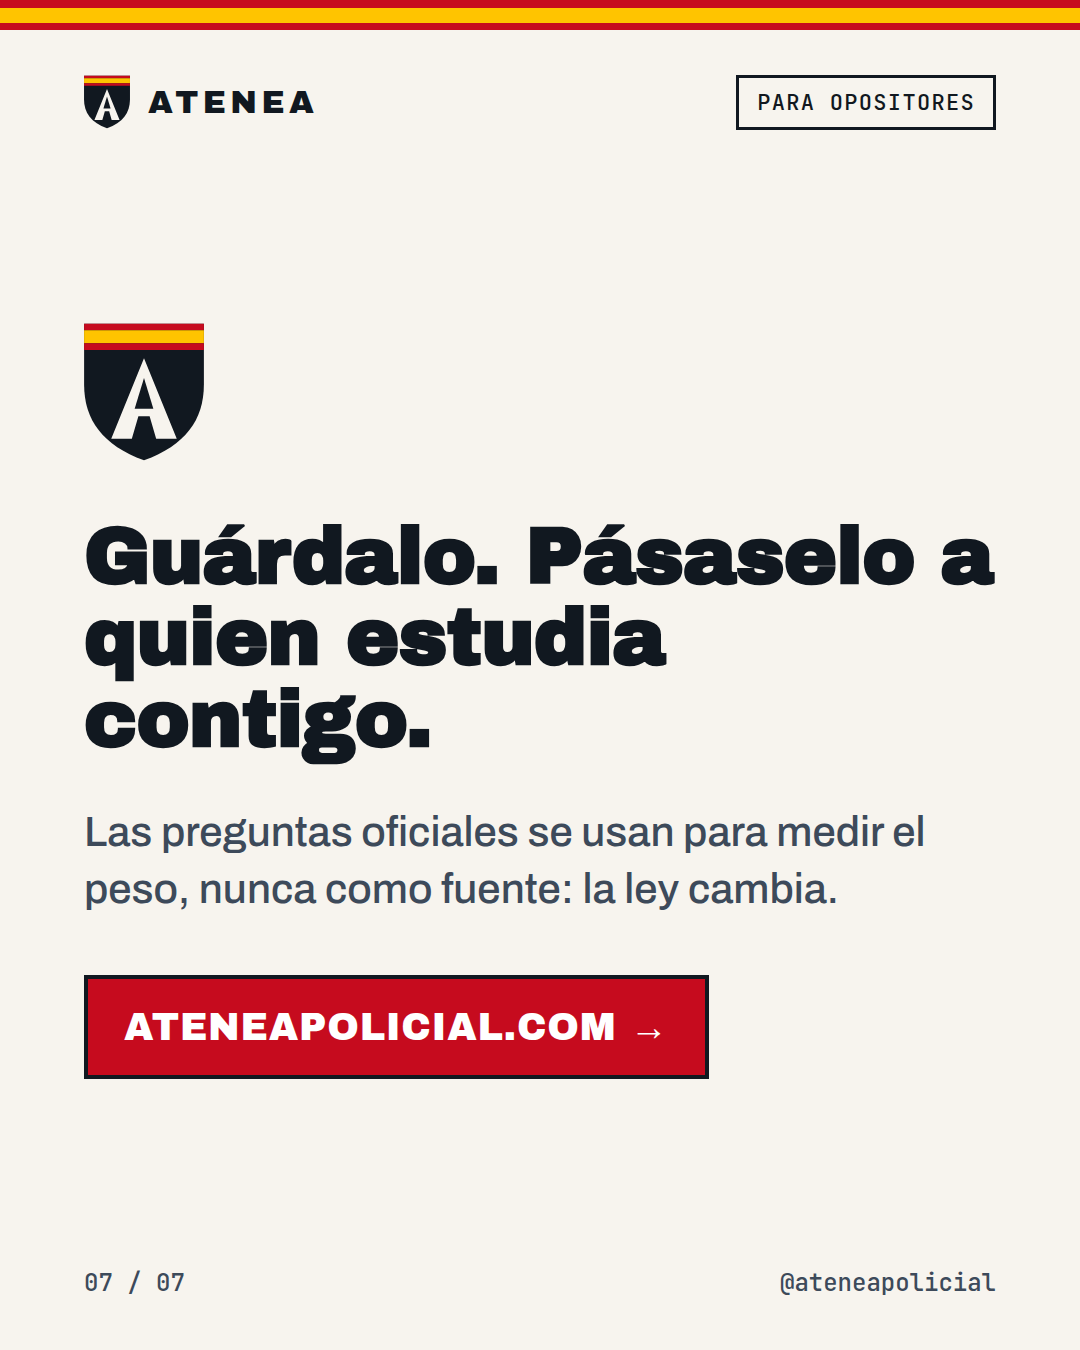
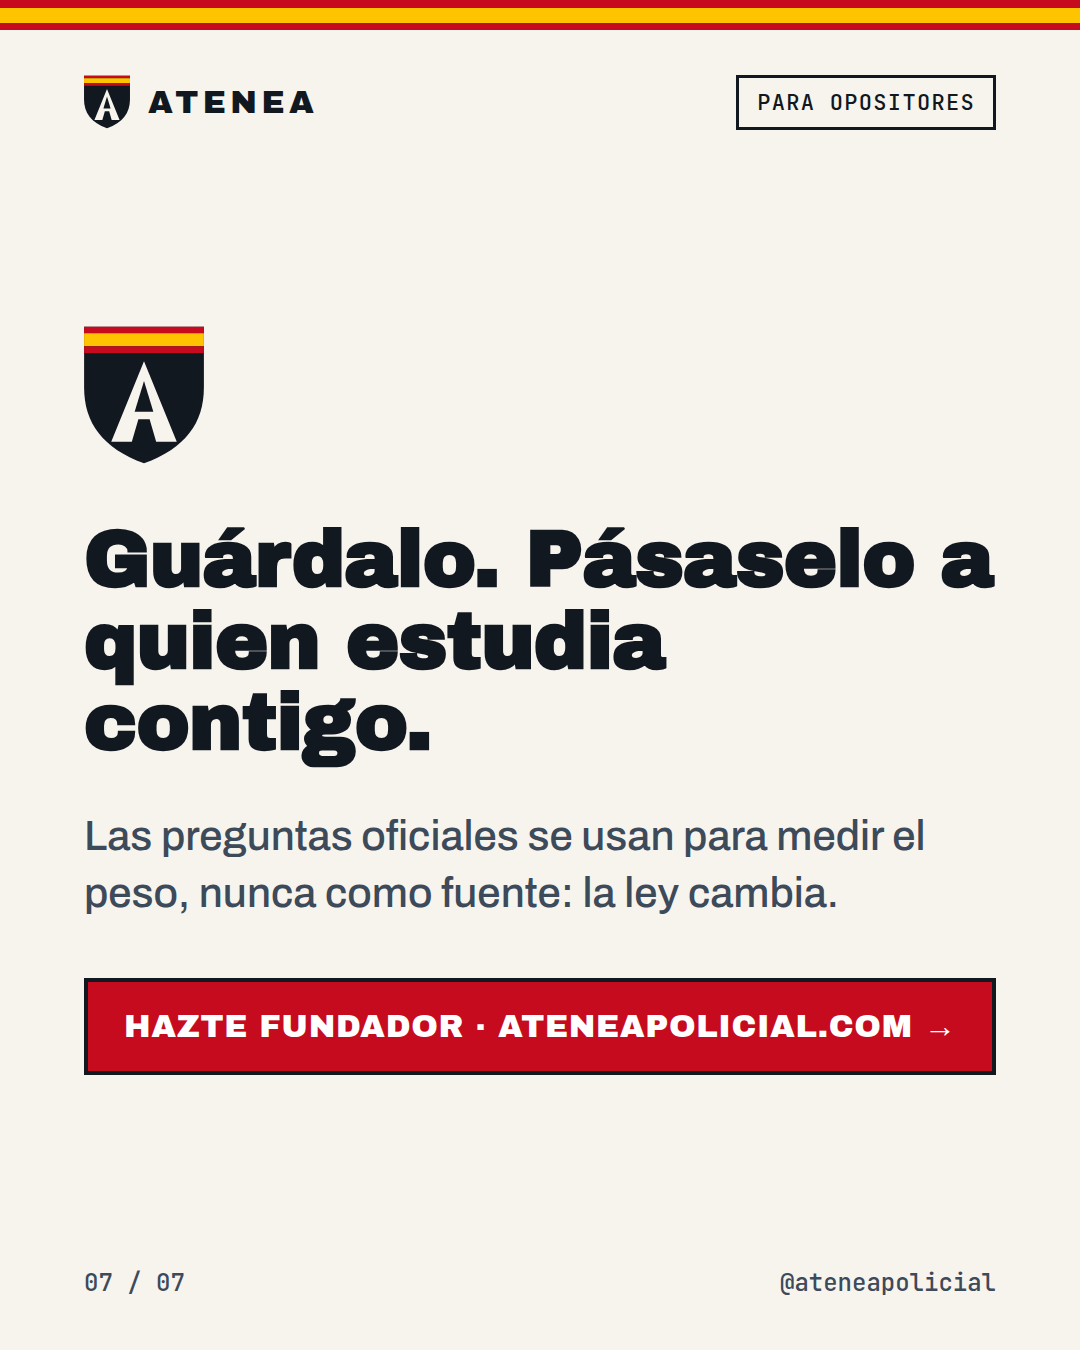
Instagram: llamada a opositores fundadores y correos de contacto
El post que abre la cuenta pasa a ser «Buscamos opositores fundadores»
(sin coste, con voz). Los posts para opositores cierran con «Hazte
fundador» y alumnos@ateneapolicial.com; los de academias, con
contacto@ateneapolicial.com.

Claude-Session: https://claude.ai/code/session_01Q8bJ7PzybgSgRwg9n7MrC2

diff --git a/marketing/instagram/POSTS.md b/marketing/instagram/POSTS.md
@@ -5,52 +5,61 @@
 
 Las imágenes de cada post están en `png/<id>/`, numeradas en el orden en que se suben.
 
-## 01-manifiesto · Quiénes somos y en qué somos distintos
+## 01-fundadores · Presentación: buscamos opositores fundadores
 
 **Semana 1, Lunes** · Público: **Opositores · Academias** · 📌 **Fijar en el perfil**
 
 ### Diapositivas
 
 1. Atenea Policial  
-   Estudiar más horas no es el problema.  
-   Estudiar lo que no toca, sí.
+   Buscamos opositores fundadores.  
+   Para una plataforma que decide qué estudias hoy. Y te dice por qué.
 2. Lo que hay  
    Miles de preguntas al azar y un porcentaje.  
    Así funcionan casi todas las plataformas de test. Qué repasar, cuándo y cuánto lo decides tú. Y nadie mira cómo has respondido: solo si has acertado.
 3. Lo que hace Atenea  
    Decide por ti. Y te dice por qué.  
    · Qué estudias hoy — Cada pregunta lleva su propio calendario de repaso. Hoy salen las que te tocan.  
-   · Dónde está tu nota — El banco crece donde más cae el examen real: 497 preguntas oficiales de 2021 a 2025, contadas tema a tema.  
-   · Qué se te está olvidando — Lo que se te va antes de que se vaya del todo, sin que tengas que buscarlo.
-4. Y para academias  
+   · Qué se te está olvidando — Te lo pone delante antes de que se vaya del todo.  
+   · Dónde está tu nota — Más preguntas donde más cae el examen real: 497 preguntas oficiales de 2021 a 2025, contadas tema a tema.
+4. Qué es ser fundador  
+   Sin coste. Con voz.  
+   · Entras sin pagar — Hoy no hay precio para opositores.  
+   · Lo que nos digas, se construye — Qué falla, qué sobra, qué echas en falta. Te contestamos nosotros, no un bot.  
+   · La abanderas — Si te sirve, que lo sepa quien estudia contigo.
+5. Y si tienes academia  
    Tu método, con un motor detrás.  
-   A quién llamar hoy, qué preguntas falla toda la clase, grupos, pagos y físicas. Con el nombre de tu academia y tu propio enlace.
-5. Policía Nacional. Escala Básica.  
-   45 temas. Un sistema que aprende de cómo respondes.  
-   ateneapolicial.com
+   A quién llamar hoy, qué preguntas falla toda la clase, grupos, pagos y físicas. Con tu nombre y tu enlace. Escríbenos a contacto@ateneapolicial.com.
+6. Oposita a Policía Nacional como nunca antes.  
+   Regístrate y te damos acceso. O escríbenos: alumnos@ateneapolicial.com  
+   Hazte fundador · ateneapolicial.com
 
 ### Pie de foto
 
 ```text
-Estudiar más horas no es el problema. Estudiar lo que no toca, sí.
+Buscamos opositores fundadores.
 
-Casi todas las plataformas de test hacen lo mismo: un banco enorme, preguntas al azar y un porcentaje de acierto. Lo demás lo decides tú: qué repasar, cuándo y cuánto.
+Atenea es una plataforma para preparar la Escala Básica de Policía Nacional que hace algo que las demás no hacen: decide qué estudias hoy, y te dice por qué.
 
-Atenea lo decide por ti, y te dice por qué:
-→ Cada pregunta tiene su calendario de repaso. Hoy salen las que te tocan.
-→ El banco crece donde más cae el examen real (497 preguntas oficiales, 2021–2025, contadas por tema).
+→ Cada pregunta tiene su propio calendario de repaso. Hoy salen las que te tocan.
 → Sabe qué se te está olvidando y te lo pone delante antes de que se vaya.
+→ Hay más preguntas donde más cae el examen real (497 preguntas oficiales, 2021–2025, contadas por tema).
 
-¿Tienes una academia? También es para ti: panel de alumnos, grupos, pagos y físicas, con tu nombre y tu enlace.
+Qué es ser fundador:
+· Entras sin pagar. Hoy no hay precio para opositores.
+· Lo que nos digas se construye: qué falla, qué sobra, qué echas en falta. Te contestamos nosotros.
+· Si te sirve, la abanderas con quien estudia contigo.
 
-Oposita a Policía Nacional como nunca antes. ateneapolicial.com
+Cómo entrar: regístrate en ateneapolicial.com y te damos acceso, o escríbenos a alumnos@ateneapolicial.com o por DM.
+
+¿Tienes una academia? contacto@ateneapolicial.com
 
 #policianacional #oposicionespolicia #escalabasica #opositores #academiadeoposiciones
 ```
 
 ### Texto alternativo (accesibilidad)
 
-> Carrusel de presentación de Atenea Policial: estudiar más horas no es el problema, estudiar lo que no toca sí. Explica que la plataforma decide qué repasar cada día, prioriza los temas que más caen en el examen real y detecta qué se le está olvidando al alumno.
+> Carrusel de presentación de Atenea Policial: buscamos opositores fundadores. La plataforma decide qué repasar cada día, detecta qué se le está olvidando al alumno y prioriza los temas que más caen en el examen real. Ser fundador es entrar sin pagar y ayudar a construirla.
 
 ---
 
@@ -77,7 +86,7 @@ Oposita a Policía Nacional como nunca antes. ateneapolicial.com
    Lo deduce de cómo respondes: cuánto tardas comparado contigo, cuándo tocas la primera opción, si cambias de idea.
 6. Tú entras. Lo que toca hoy ya está elegido.  
    Oposita a Policía Nacional como nunca antes.  
-   ateneapolicial.com
+   Hazte fundador · ateneapolicial.com
 
 ### Pie de foto
 
@@ -98,6 +107,8 @@ Tú entras y lo que te toca hoy ya está elegido. Ves lo que vence cada día de 
 (Las cifras de la imagen son un ejemplo.)
 
 ateneapolicial.com
+
+¿Quieres ser opositor fundador? Sin coste: regístrate en ateneapolicial.com o escribe a alumnos@ateneapolicial.com.
 
 #policianacional #oposicionespolicia #tecnicasdeestudio #repeticionespaciada #opositores
 ```
@@ -135,8 +146,8 @@ ateneapolicial.com
    Sin datos no es cero.  
    Un 0 % es un alumno que va mal; uno que no ha empezado pide otra llamada. El panel no los mezcla. Y el acierto se calcula sobre lo contestado: quien deja blancos a propósito no sale peor de lo que va.
 6. Tu academia, con un motor detrás.  
-   Para academias de oposición a Policía Nacional.  
-   Pide una demo por DM
+   Pide una demo, por DM o por correo.  
+   contacto@ateneapolicial.com
 
 ### Pie de foto
 
@@ -151,7 +162,7 @@ Y separa dos cosas que casi todo el mundo mezcla:
 → Quien no viene: ¿sigue interesado?
 → Quien viene y no estudia: ¿se ha atascado? Son de los que más se salvan, y de los que antes se pierden.
 
-Tienes una academia de oposición a Policía Nacional y quieres verlo con tus alumnos: escríbenos por DM.
+Tienes una academia de oposición a Policía Nacional y quieres verlo con tus alumnos: escríbenos por DM o a contacto@ateneapolicial.com.
 
 #academiadeoposiciones #oposicionespolicia #policianacional #gestionacademia #formacion
 ```
@@ -192,7 +203,7 @@ Tienes una academia de oposición a Policía Nacional y quieres verlo con tus al
    En los temas que más caen hay preguntas para cada artículo, no una cifra redonda por tema. Y cuando dos repasos son igual de urgentes, va primero el del tema que más cae.
 7. Guárdalo. Pásaselo a quien estudia contigo.  
    Las preguntas oficiales se usan para medir el peso, nunca como fuente: la ley cambia.  
-   ateneapolicial.com
+   Hazte fundador · ateneapolicial.com
 
 ### Pie de foto
 
@@ -215,6 +226,8 @@ En Atenea este reparto decide dos cosas: dónde crece el banco (en los temas que
 Una aclaración: los exámenes antiguos los usamos para medir el peso, no para sacar preguntas. Un artículo citado hace cinco años puede haber cambiado.
 
 Fuente: cuadernillos oficiales 2021–2025, clasificados por tema.
+
+¿Quieres ser opositor fundador? Sin coste: regístrate en ateneapolicial.com o escribe a alumnos@ateneapolicial.com.
 
 #policianacional #oposicionespolicia #escalabasica #temario #opositores
 ```
@@ -255,7 +268,7 @@ Fuente: cuadernillos oficiales 2021–2025, clasificados por tema.
    Cada recaída acorta su siguiente repaso. Es tu memoria con esa pregunta, no una media de todo el mundo.
 6. Cuántas preguntas hoy, lo propone el sistema.  
    Tú lo ajustas y entrenas. Sin nota y sin reloj: aquí se aprende.  
-   ateneapolicial.com
+   Hazte fundador · ateneapolicial.com
 
 ### Pie de foto
 
@@ -273,6 +286,8 @@ Con eso se arma tu sesión:
 Y antes de cada pregunta te dice por qué está ahí: «te toca porque la fallaste hace 3 días», «una más y se retira una temporada».
 
 Si una pregunta se te cae una y otra vez, vuelve antes. Es tu curva de olvido con esa pregunta, no una media.
+
+¿Quieres ser opositor fundador? Sin coste: regístrate en ateneapolicial.com o escribe a alumnos@ateneapolicial.com.
 
 #policianacional #oposicionespolicia #tecnicasdeestudio #repeticionespaciada #opositores
 ```
@@ -309,7 +324,7 @@ Si una pregunta se te cae una y otra vez, vuelve antes. Es tu curva de olvido co
    · Plan físico por grupo — Semana a semana y con histórico. Lo escribe tu preparador.
 5. Y el mismo motor de estudio para todos tus alumnos.  
    La gestión es lo que te ahorra tiempo. El entrenamiento adaptativo es lo que te hace distinta.  
-   Pide una demo por DM
+   contacto@ateneapolicial.com
 
 ### Pie de foto
 
@@ -328,7 +343,7 @@ FÍSICAS · Tu preparador escribe el plan de cada grupo semana a semana, y queda
 
 Y encima, el mismo entrenamiento adaptativo para todos tus alumnos.
 
-Demo para academias: escríbenos por DM.
+Demo para academias: escríbenos por DM o a contacto@ateneapolicial.com.
 
 #academiadeoposiciones #oposicionespolicia #gestionacademia #policianacional #preparacionfisica
 ```
@@ -367,7 +382,7 @@ Demo para academias: escríbenos por DM.
    · Laguna — Esto no lo sabías.
 6. Tú contestas. Lo demás lo deducimos.  
    Sin encuestas después de cada pregunta.  
-   ateneapolicial.com
+   Hazte fundador · ateneapolicial.com
 
 ### Pie de foto
 
@@ -383,6 +398,8 @@ Con eso:
 → Un fallo no es solo un fallo. Olvido, trampa, lectura o laguna, y cada uno vuelve en un momento distinto. Si leíste mal, no hace falta volver a empezar de cero con esa pregunta.
 
 Tú contestas. Lo demás lo hace el sistema.
+
+¿Quieres ser opositor fundador? Sin coste: regístrate en ateneapolicial.com o escribe a alumnos@ateneapolicial.com.
 
 #policianacional #oposicionespolicia #tecnicasdeestudio #opositores #escalabasica
 ```
@@ -414,7 +431,7 @@ Tú contestas. Lo demás lo hace el sistema.
    El que no tocaste porque no tenías ni idea. Y el que marcaste y retiraste porque no compensaba arriesgar. El segundo es estrategia, y lo distinguimos.
 5. Dos simulacros que se pueden comparar.  
    Tu media, la mejor y hacia dónde vas.  
-   ateneapolicial.com
+   Hazte fundador · ateneapolicial.com
 
 ### Pie de foto
 
@@ -432,6 +449,8 @@ En Atenea un simulacro:
 Al terminar, una cuadrícula: verde, rojo y blanco. Cada casilla abre qué marcaste, la correcta, la explicación, el artículo y cuánto tardaste.
 
 Y una cosa que casi nadie mira: no todos los blancos son iguales. No es lo mismo no tener ni idea que marcar, dudar y retirarla porque no compensaba el riesgo. Lo segundo es estrategia, y te lo decimos.
+
+¿Quieres ser opositor fundador? Sin coste: regístrate en ateneapolicial.com o escribe a alumnos@ateneapolicial.com.
 
 #policianacional #oposicionespolicia #simulacro #escalabasica #opositores
 ```
@@ -465,8 +484,8 @@ Y una cosa que casi nadie mira: no todos los blancos son iguales. No es lo mismo
    El aviso llega a quien puede arreglarlo.  
    Si un alumno reporta una pregunta de tu banco, te llega a ti. Si es del banco común, la corregimos nosotros.
 6. Menos intuición. Más clase donde hace falta.  
-   Para academias de oposición a Policía Nacional.  
-   Pide una demo por DM
+   Pide una demo, por DM o por correo.  
+   contacto@ateneapolicial.com
 
 ### Pie de foto
 
@@ -513,7 +532,7 @@ Y si un alumno reporta una pregunta de tu banco, te llega a ti. Si es del banco 
    Porque el día del examen la trampa no es la correcta: es la que se le parece.
 5. Tus fallos, ordenados por lo que hay que hacer con ellos.  
    No una lista plana de todo lo que has fallado.  
-   ateneapolicial.com
+   Hazte fundador · ateneapolicial.com
 
 ### Pie de foto
 
@@ -525,6 +544,8 @@ Eso no es no saberlo. Es tener un dato falso bien aprendido, y ahí hacer más t
 Atenea lo detecta. Cuando tus fallos en una pregunta se concentran en la misma opción equivocada, deja de repetírtela y te manda al artículo. Lo mismo con las que llevas cuatro fallos o más: aparecen aparte, arriba, en «Se te resisten».
 
 Y cada explicación dice por qué la correcta está bien y también por qué las otras dos están mal. El día del examen, la trampa es la opción que se parece a la buena.
+
+¿Quieres ser opositor fundador? Sin coste: regístrate en ateneapolicial.com o escribe a alumnos@ateneapolicial.com.
 
 #policianacional #oposicionespolicia #tecnicasdeestudio #opositores #testoposiciones
 ```
@@ -557,7 +578,7 @@ Y cada explicación dice por qué la correcta está bien y también por qué las
    Tu curva se guarda en tu cuenta: la misma en el móvil y en el ordenador.
 5. Dónde estás. No dónde te gustaría estar.  
    Solo lo que has hecho, contado bien.  
-   ateneapolicial.com
+   Hazte fundador · ateneapolicial.com
 
 ### Pie de foto
 
@@ -576,6 +597,8 @@ Casi ninguna plataforma te lo puede decir, porque solo guarda aciertos y fallos 
 Sin predicciones de cuándo vas a aprobar. Solo lo que has hecho, contado bien.
 
 (La curva de la imagen es un ejemplo.)
+
+¿Quieres ser opositor fundador? Sin coste: regístrate en ateneapolicial.com o escribe a alumnos@ateneapolicial.com.
 
 #policianacional #oposicionespolicia #opositores #escalabasica #motivacionopositores
 ```
@@ -608,8 +631,8 @@ Sin predicciones de cuándo vas a aprobar. Solo lo que has hecho, contado bien.
    Lo que escribe tu profesor pasa el mismo filtro.  
    Opciones repetidas, una celda vacía, la correcta mal marcada: se rechaza antes de llegar a un alumno.
 5. Tu contenido y el nuestro, en el mismo motor.  
-   Para academias de oposición a Policía Nacional.  
-   Pide una demo por DM
+   Pide una demo, por DM o por correo.  
+   contacto@ateneapolicial.com
 
 ### Pie de foto
 
@@ -628,7 +651,7 @@ TU BANCO
 
 Y todo pasa el mismo filtro, lo escriba una persona o la IA: opciones repetidas, celdas vacías o la correcta mal marcada no llegan a ningún alumno.
 
-Demo para academias: escríbenos por DM.
+Demo para academias: escríbenos por DM o a contacto@ateneapolicial.com.
 
 #academiadeoposiciones #oposicionespolicia #policianacional #bancodepreguntas #profesores
 ```

diff --git a/marketing/instagram/README.md b/marketing/instagram/README.md
@@ -42,7 +42,7 @@ opositor comparte el post de la nota, el director de su academia lo ve.
 | Qué le duele | Estudia mucho y no sabe si va bien | Pierde alumnos sin verlo venir; lleva todo en Excel y WhatsApp |
 | Qué le prometemos | Qué estudiar hoy, y que no se le olvide lo que ya sabe | A quién llamar, qué explicar y la gestión en un sitio |
 | Formato | Carrusel educativo que se guarda y se comparte | Carrusel con un dolor concreto y el panel como respuesta |
-| Llamada a la acción | ateneapolicial.com | Pide una demo por DM |
+| Llamada a la acción | **Hazte fundador**: sin coste, en ateneapolicial.com o a alumnos@ateneapolicial.com | Demo: DM o contacto@ateneapolicial.com |
 | Color del post | **Hueso** (fondo claro, rojo) | **Noche** (fondo oscuro, amarillo) |
 
 El color no es decoración: en la cuadrícula del perfil un director de academia
@@ -90,7 +90,7 @@ mejor para academias.
 
 | Semana | Lunes | Miércoles | Viernes |
 |---|---|---|---|
-| 1 | 📌 01 · Manifiesto (ambos) | 📌 02 · Sabe qué se te va a olvidar | 📌 03 · ¿Quién lo va a dejar? (academia) |
+| 1 | 📌 01 · Buscamos opositores fundadores (ambos) | 📌 02 · Sabe qué se te va a olvidar | 📌 03 · ¿Quién lo va a dejar? (academia) |
 | 2 | 04 · No todos los temas valen igual | 05 · Hoy te toca esto | 06 · Excel, WhatsApp y una libreta (academia) |
 | 3 | 07 · Acertar dudando | 08 · Simulacros comparables | 09 · Lo que falla toda la clase (academia) |
 | 4 | 10 · La misma opción falsa | 11 · Mi Evolución | 12 · Más de 4.600 preguntas (academia) |
@@ -120,15 +120,24 @@ No los «me gusta». Cada semana:
 Si tras el mes un tipo de post dobla en guardados al resto, el segundo mes se
 hace más de ese.
 
-## 8 · Antes de publicar
+## 8 · Opositores fundadores
 
-- [ ] **Qué ve un opositor al registrarse.** Hoy un registro sin academia entra
-      en la academia «casa» y espera a que se le acepte (regla 70). Si hay
-      precio, decidir si se dice en la bio o en la primera respuesta.
-- [ ] **Quién contesta los DMs de academias**, con una cuenta de demo preparada.
-- [ ] **El peso por tema (post 04)** sale de la clasificación por tema de los
-      cuadernillos resueltos. Si la convocatoria 2026 renumera algún tema,
-      revisar los cinco títulos.
+Hoy no hay precio para opositores: se buscan **fundadores** que la usen, digan
+qué falla y la abanderen. Eso es la llamada a la acción de todos los posts para
+opositores, y el post que abre la cuenta.
+
+- **Qué se promete:** entrar sin pagar y que lo que digan se tenga en cuenta.
+  **Nada más.** Ni «gratis para siempre», ni plazas limitadas, ni ventajas
+  futuras que no estén decididas.
+- **Cómo entra un fundador:** se registra en `ateneapolicial.com` y se le
+  acepta desde el panel (le llega el correo de solicitud, regla 70). O escribe
+  a `alumnos@ateneapolicial.com` o por DM.
+- **Correos:** `alumnos@` para opositores, `contacto@` para academias. Los DMs
+  y los correos los contesta el dueño.
+
+Pendiente de revisar: **el peso por tema (post 04)** sale de la clasificación
+por tema de los cuadernillos resueltos. Si la convocatoria 2026 renumera algún
+tema, revisar los cinco títulos.
 
 ## Cómo regenerar
 

diff --git a/marketing/instagram/REELS-Y-STORIES.md b/marketing/instagram/REELS-Y-STORIES.md
@@ -17,7 +17,7 @@ grabación de pantalla de «Lo que te toca».
 | 3-7 | Cara de no acordarse | «Exacto. Se te está yendo, y no lo vas a notar hasta el examen.» |
 | 7-15 | Pantalla: la semana con lo que vence cada día | «Atenea lleva un reloj por cada pregunta. Sabe cuál se te va a olvidar y te la pone delante antes.» |
 | 15-20 | Pantalla: «Te toca porque la fallaste hace 3 días» | «Y te dice por qué te toca.» |
-| 20-23 | Logo + ateneapolicial.com | «Oposita como nunca antes.» |
+| 20-23 | Logo + ateneapolicial.com | «Buscamos opositores fundadores. Sin coste.» |
 
 **Portada del reel:** «Se te está olvidando».
 
@@ -56,6 +56,8 @@ Instagram (encuesta, test, pregunta): son los que más respuestas sacan.
 
 | Día | Story | Sticker |
 |---|---|---|
+| Tras el 01 | «Buscamos opositores fundadores. ¿Te apuntas?» | Sticker de enlace → ateneapolicial.com |
+| Tras el 01 | «¿Qué le falta a la plataforma con la que estudias?» | Pregunta abierta (las respuestas son oro para construir) |
 | Tras el 02 | «¿Cuándo repasaste por última vez el tema 1?» | Encuesta: Esta semana / Este mes / Ni me acuerdo |
 | Tras el 02 | «¿Cómo sabes qué se te está olvidando?» | Pregunta abierta |
 | Tras el 04 | «¿Cuál crees que es el tema que más cae?» | Test: Constitución II / Funcionarios / DGP |
